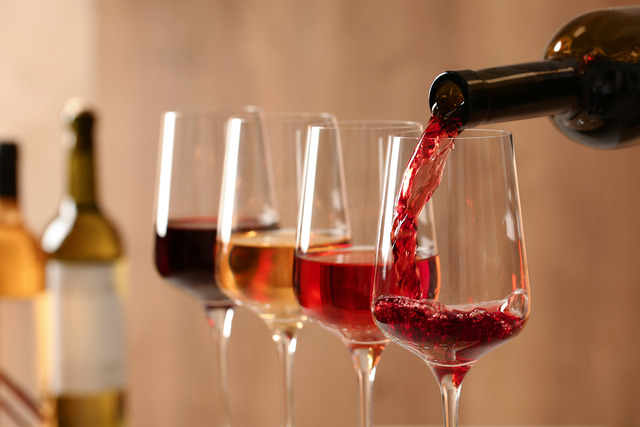
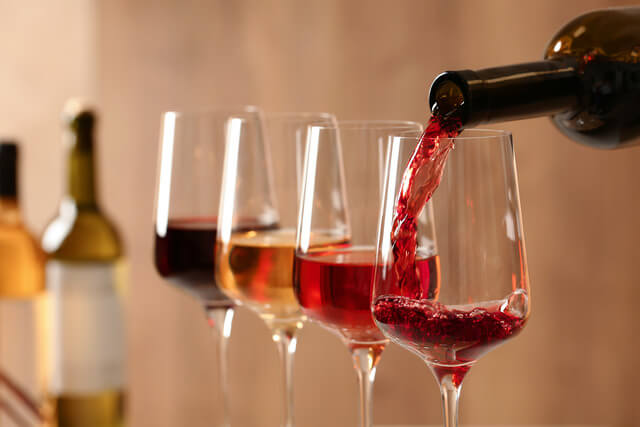
compressed gallery pics and contact page pics
compressed gallery pics and contact page pics with tinypng

diff --git a/gallery.html b/gallery.html
@@ -49,15 +49,15 @@
             <div class="circle-section">
                 <ul class="circle-list">
                     <li class="circle-item">
-                        <img src="assets/images/image1.jpg" alt="Image 1" data-bs-toggle="modal" data-bs-target="#videoModal1">
+                        <img src="assets/images/image1.png" alt="Image 1" data-bs-toggle="modal" data-bs-target="#videoModal1">
                         <span>Guardastelle Vineyard</span>
                     </li>
                     <li class="circle-item">
-                        <img src="assets/images/image2.jpg" alt="Image 2" data-bs-toggle="modal" data-bs-target="#videoModal2">
+                        <img src="assets/images/image2.png" alt="Image 2" data-bs-toggle="modal" data-bs-target="#videoModal2">
                         <span>Montefioralle Winery</span>
                     </li>
                     <li class="circle-item">
-                        <img src="assets/images/image3.jpg" alt="Image 3" data-bs-toggle="modal" data-bs-target="#videoModal3">
+                        <img src="assets/images/image3.png" alt="Image 3" data-bs-toggle="modal" data-bs-target="#videoModal3">
                         <span>Chianti Winery</span>
                     </li>
                 </ul>
@@ -69,21 +69,21 @@
             <div class="image-gallery">
                 <div class="column">
                     <div class="image-item">
-                        <img src="assets/images/img-one.jpeg" alt="girls at the bar">
+                        <img src="assets/images/img-one.png" alt="girls at the bar">
                         <div class="overlay"><span>Our garden bar</span></div>
                     </div>
                     <div class="image-item">
-                        <img src="assets/images/img-two.jpeg" alt="friends laughing">
+                        <img src="assets/images/img-two.png" alt="friends laughing">
                         <div class="overlay"><span>Our garden</span></div>
                     </div>
                     <div class="image-item">
-                        <img src="assets/images/img-three.jpeg" alt="food tray">
+                        <img src="assets/images/img-three.png" alt="food tray">
                         <div class="overlay"><span>Our trays</span></div>
                     </div>
                 </div>
                 <div class="column">
                     <div class="image-item">
-                        <img src="assets/images/img-four.jpeg" alt="people at the table">
+                        <img src="assets/images/img-four.png" alt="people at the table">
                         <div class="overlay"><span>Garden tables</span></div>
                     </div>
                     <div class="image-item">
@@ -91,7 +91,7 @@
                         <div class="overlay"><span>Our indoor seats</span></div>
                     </div>
                     <div class="image-item">
-                        <img src="assets/images/img-five.jpeg" alt="wine bottles">
+                        <img src="assets/images/img-five.png" alt="wine bottles">
                         <div class="overlay"><span>Wine tasting</span></div>
                     </div>
                 </div>
@@ -101,25 +101,25 @@
                         <div class="overlay"><span>Wine tasting</span></div>
                     </div>
                     <div class="image-item">
-                        <img src="assets/images/img-eleven.jpeg" alt="wine bottles cellar">
+                        <img src="assets/images/img-eleven.png" alt="wine bottles cellar">
                         <div class="overlay"><span>Our cellar</span></div>
                     </div>
                     <div class="image-item">
-                        <img src="assets/images/img-eight.jpeg" alt="wine bottles">
+                        <img src="assets/images/img-eight.png" alt="wine bottles">
                         <div class="overlay"><span>Our selection</span></div>
                     </div>
                 </div>
                 <div class="column">
                     <div class="image-item">
-                        <img src="assets/images/img-twelve.jpeg" alt="barrels">
+                        <img src="assets/images/img-twelve.png" alt="barrels">
                         <div class="overlay"><span>Our barrels</span></div>
                     </div>
                     <div class="image-item">
-                        <img src="assets/images/img-ten.jpeg" alt="women drinking at the table">
+                        <img src="assets/images/img-ten.png" alt="women drinking at the table">
                         <div class="overlay"><span>Our indoor tables</span></div>
                     </div>
                     <div class="image-item">
-                        <img src="assets/images/img-thirteen.jpeg" alt="glass of wine on table">
+                        <img src="assets/images/img-thirteen.png" alt="glass of wine on table">
                         <div class="overlay"><span>Our garden bar</span></div>
                     </div>
                 </div>

diff --git a/contact.html b/contact.html
@@ -100,7 +100,7 @@
                             <i class="fa fa-quote-left"></i>
                             <p>Sensational wine list! The outside seating area is spacious and there are also heaters for cooler nights. The staff were very lovely and super helpful!</p>
                             <div class="reviewer">
-                                <img src="assets/images/customer1.jpg" alt="Customer 1">
+                                <img src="assets/images/customer1.png" alt="Customer 1">
                                 <h4>John Doe</h4>
                             </div>
                         </div>
@@ -110,7 +110,7 @@
                             <i class="fa fa-quote-left"></i>
                             <p>Amazing place, we love it so much! Our favourite in the area. The place is lovely, the food is really good and the staff is super nice</p>
                             <div class="reviewer">
-                                <img src="assets/images/customer2.jpg" alt="Customer 2">
+                                <img src="assets/images/customer2.png" alt="Customer 2">
                                 <h4>Jane Smith</h4>
                             </div>
                         </div>
@@ -120,7 +120,7 @@
                             <i class="fa fa-quote-left"></i>
                             <p>Very cool venue, felt like a real authentic wine cellar/cave. Wine selection was also very wide but not too intimidating for a novice like myself! Would visit again</p>
                             <div class="reviewer">
-                                <img src="assets/images/customer3.jpg" alt="Customer 3">
+                                <img src="assets/images/customer3.png" alt="Customer 3">
                                 <h4>Bob Johnson</h4>
                             </div>
                         </div>
